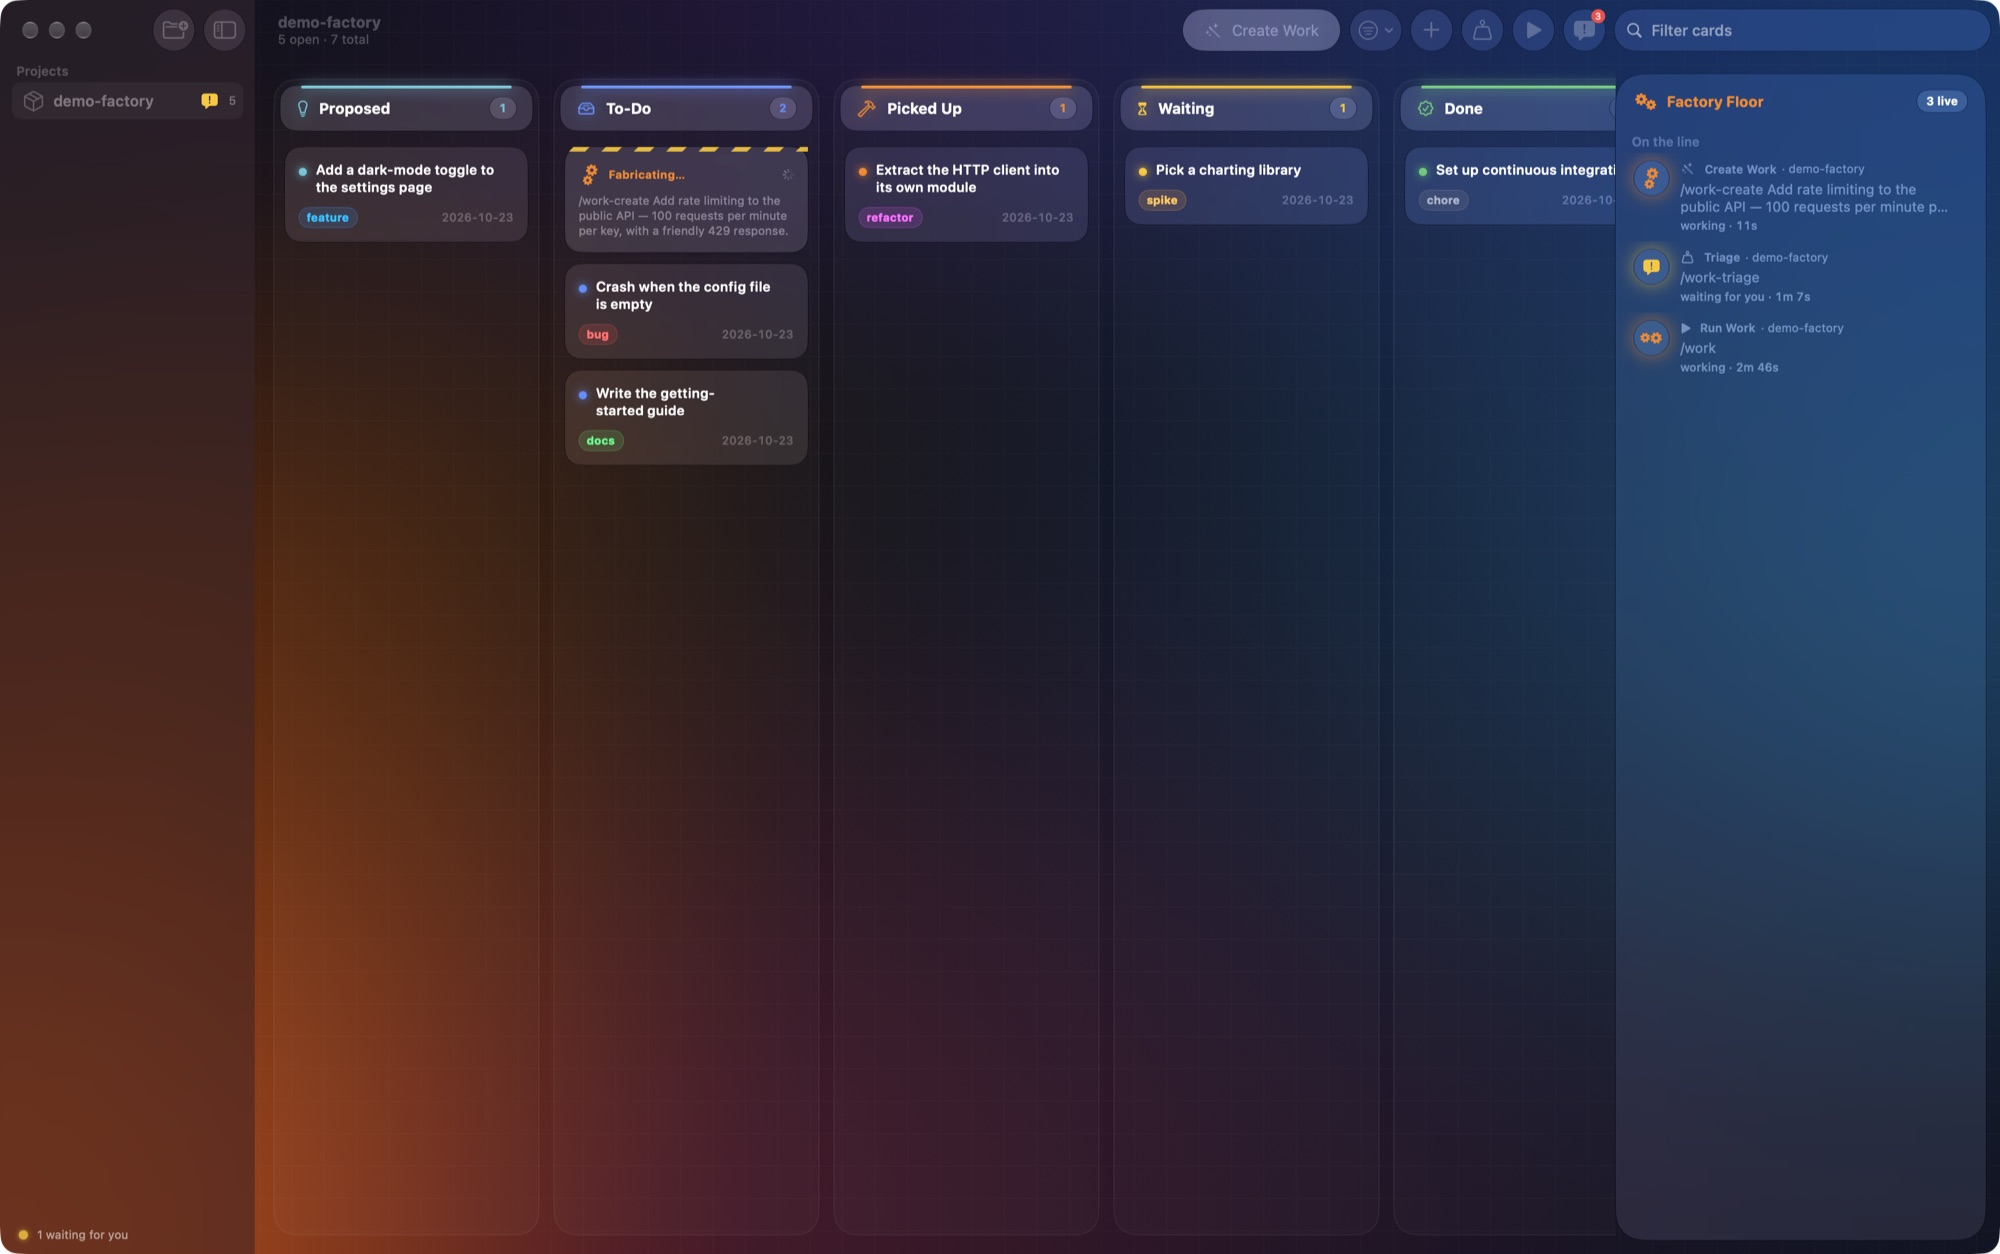
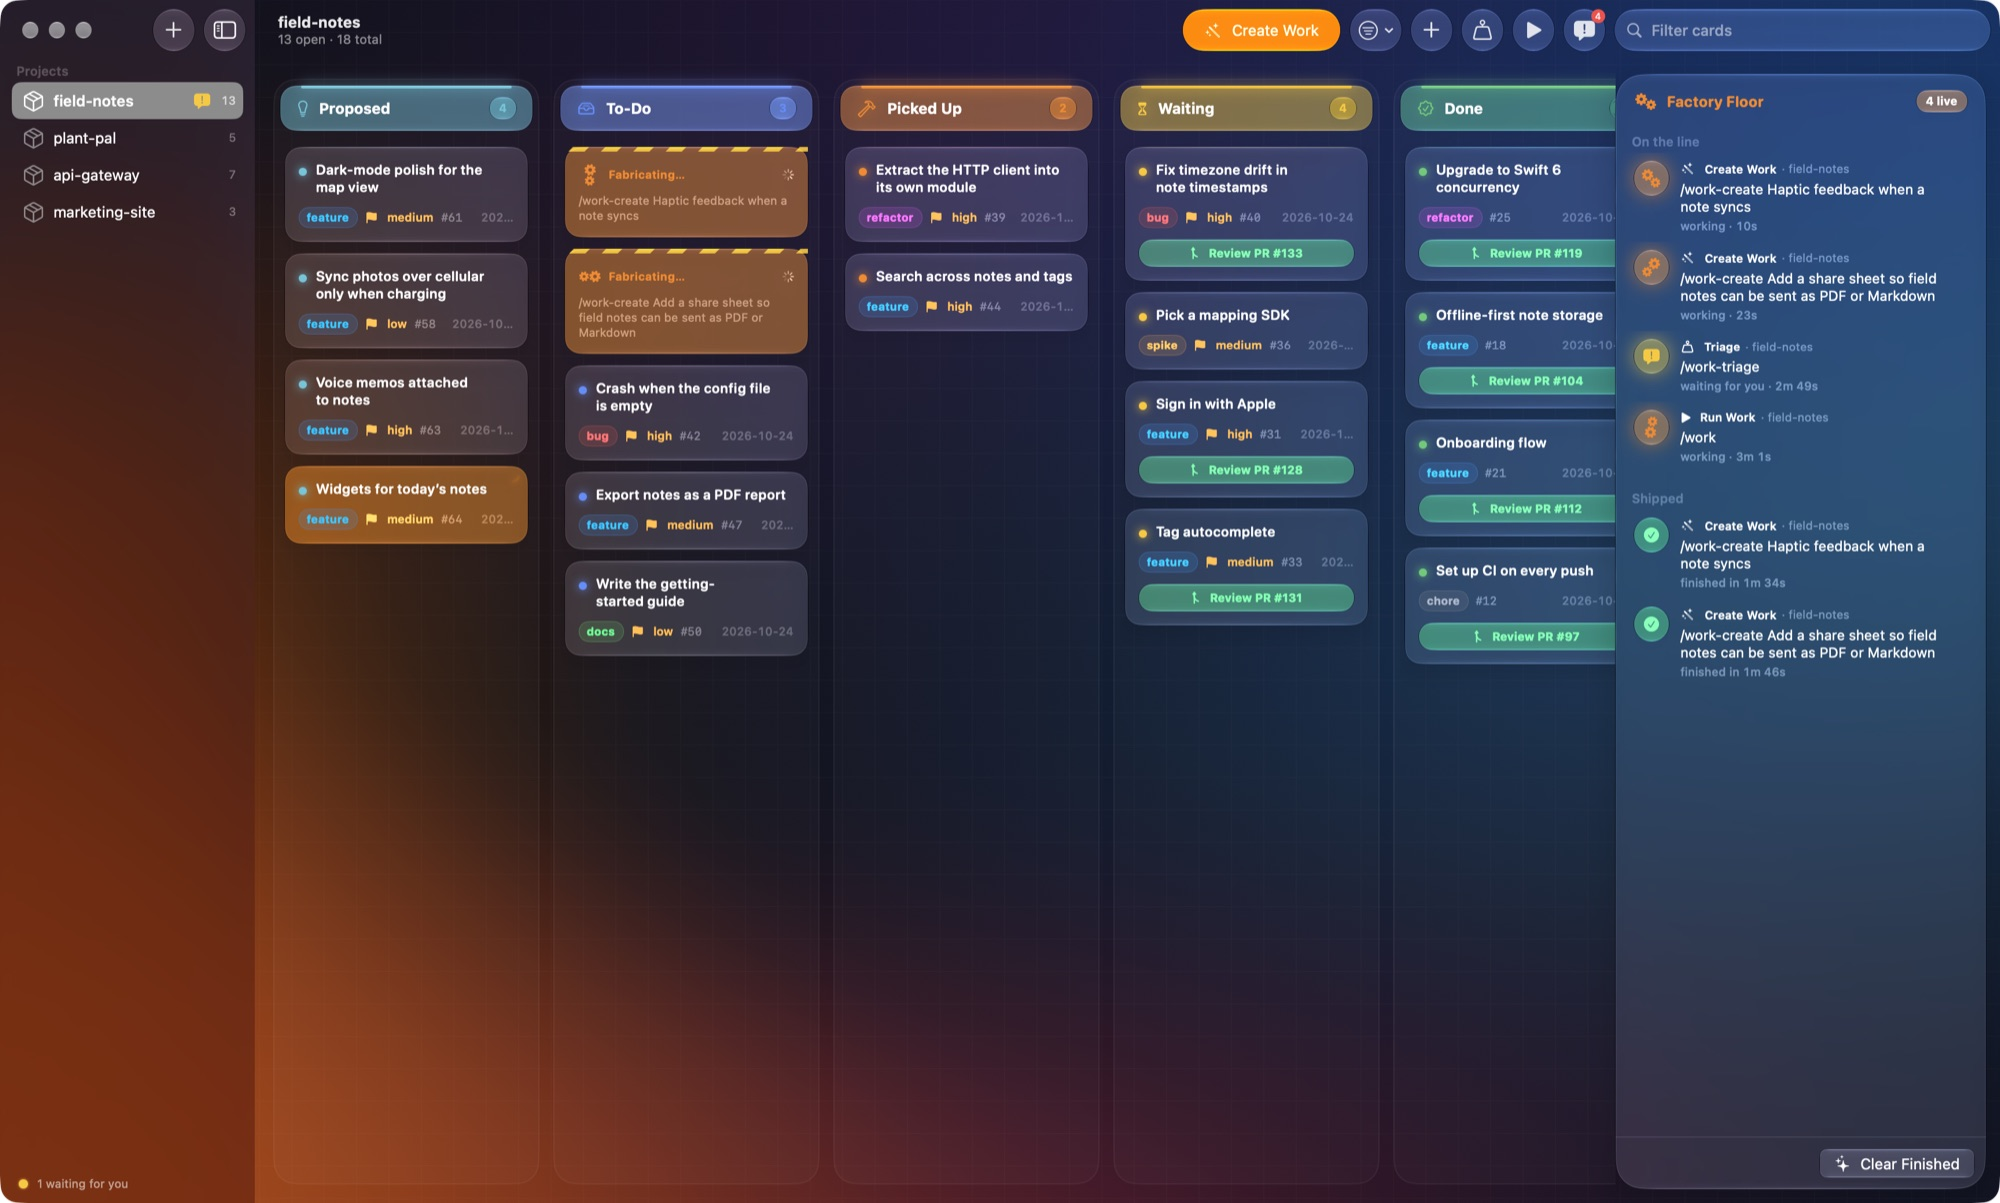
README: fresh screenshots of a busy factory and the magic moments

diff --git a/README.md b/README.md
@@ -30,7 +30,7 @@
 </p>
 
 <p align="center">
-  <img src="docs/screenshots/board.jpg" alt="The Ultra Code Factory board: six glass columns over an orange and blue aurora, a card being fabricated by an agent, and the Factory Floor panel listing three live agents" width="100%">
+  <img src="docs/screenshots/board.jpg" alt="The Ultra Code Factory board on a busy day: glass columns of cards over an orange and blue aurora, two cards being fabricated by agents, a freshly arrived card glowing orange, green Review PR buttons on waiting and done cards, and the Factory Floor panel listing four live agents" width="100%">
 </p>
 
 ---
@@ -83,7 +83,7 @@ What Ultra Code Factory believes, and builds for.
 | 🧪 **Demo Factory**         | One click sets up a scratch repo with sample cards, so you can try everything without touching real code.                                                                                    |
 
 <p align="center">
-  <img src="docs/screenshots/console.jpg" alt="An agent console: Claude's triage question shown in the terminal and again as three native glass buttons" width="80%">
+  <img src="docs/screenshots/console.jpg" alt="An agent console: Claude's triage question shown in the terminal and again as four native glass buttons" width="80%">
 </p>
 
 ## The magic
@@ -94,9 +94,15 @@ Little moments that make one person feel like a crew.
   idea in a sentence and click **Suggest the rest from my pitch**. A quick,
   read-only Claude call pre-selects platforms, stack, features and style as
   chips you can change.
+
+  <img src="docs/screenshots/wizard.jpg" alt="The New Project wizard's features step: suggested features such as Water reminders, Plant photo journal and Shared plant households pre-selected as orange chips" width="100%">
+
 - 🏗 **It builds the factory for you.** Finish the wizard and watch a
   checklist tick by: folder, `PROJECT.md`, git, board, then a planner agent
   that drafts your first backlog into Proposed.
+
+  <img src="docs/screenshots/finale-open.jpg" alt="The build finale: a green seal reading Your factory is open above a ticked checklist, with the new project's board filling in behind" width="100%">
+
 - 📥 **Work arrives on its own.** Cards an agent writes drop onto the board
   with a spring and a short glow. No refresh: the board watches the disk.
 - 🔀 **Review is one click away.** When a card links its pull request (the
@@ -104,6 +110,8 @@ Little moments that make one person feel like a crew.
 - ☕ **It tells you what you missed.** Come back after a while and a glass
   banner sums it up: what shipped, what's waiting on you, and how many PRs are
   ready for review.
+
+  <img src="docs/screenshots/away.jpg" alt="The While you were away banner at the top of the board: pull requests ready for review and agents waiting" width="100%">
 
 ## Quick start
 
@@ -187,10 +195,6 @@ A card's folder is its real status. When you move a card, Ultra Code Factory
 rewrites only the `status:` and `updated:` lines and leaves every other byte
 alone. A move never overwrites another card, and deleting a card sends it to
 the Trash.
-
-<p align="center">
-  <img src="docs/screenshots/card.jpg" alt="A card open in its detail sheet: rendered markdown with ticked checkboxes, a code block, and a status picker" width="80%">
-</p>
 
 ### The agents
 
